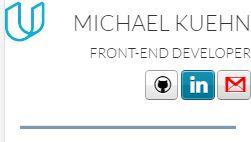
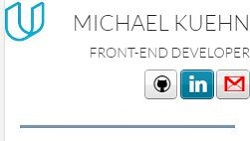
Customize CSS and add images

diff --git a/js/resumeBuilder.js b/js/resumeBuilder.js
@@ -60,14 +60,14 @@ var education = {
         "degree": "M.A.",
         "majors": ["Mathematics Education (5-12)"],
         "dates": "2011-2013",
-        "url": "http://www.wgu.edu"
+        "url": "http://www.wgu.edu/wgu/credit/program546b"
     }, {
         "name": "United States Military Academy",
         "location": "West Point, New York",
         "degree": "B.S.",
         "majors": ["Information Systems Engineering", "Computer Science"],
         "dates": "1999-2003",
-        "url": "http://www.usma.edu"
+        "url": "http://www.usma.edu/eecs"
     }],
     "onlineCourses": [{
         "title": "Front-End Developer Nanodegree",
@@ -150,13 +150,13 @@ var projects = {
         "title": "Online Portfolio",
         "dates": "2016",
         "description": "I created an online portfolio to showcase all of my web development and data analysis projects.",
-        "images": ["images/portfolio.jpg"],
+        "images": ["images/portfolio.jpg", "images/portfolio2.jpg"],
         "url": "https://mkuehn10.github.io/"
     }, {
         "title": "Identify Fraud at Enron",
         "dates": "2016",
         "description": "Identified which Enron employees are more likely to have committed fraud using machine learning and public Enron financial and email data.",
-        "images": ["images/enron2.jpg"],
+        "images": ["images/enron1.jpg", "images/enron2.jpg"],
         "url": "https://github.com/mkuehn10/P5-Identify-Fraud-from-Enron"
     }]
 };

diff --git a/css/style.css b/css/style.css
@@ -11,7 +11,7 @@ h5,
 h6 {
   padding:0;
   margin:0;
-  font-family: "Roboto", sans-serif;
+  font-family: "Poppins", sans-serif;
 }
 
 .clear-fix {
@@ -30,7 +30,7 @@ h6 {
 
 h1 {
   font-size: 40px;
-  color: #f5a623;
+  color: #c2240f;
   line-height: 48px;
   display: inline;
 }
@@ -38,7 +38,7 @@ h1 {
 h2 {
   font-weight: bold;
   font-size: 24px;
-  color: #999;
+  color: #4a427d;
   line-height: 29px;
   padding: 10px;
 }
@@ -104,16 +104,16 @@ a {
 }
 
 #skills-h3 {
-  color: #f5ae23;
+  color: #c2240f;
   display: none;
 }
 
 .orange {
-  background-color: #f5ae23;
+  background-color: #c2240f;
 }
 
 .orange-text {
-  color: #f5ae23;
+  color: #c2240f;
 }
 
 .white-text {
@@ -128,12 +128,12 @@ a {
 }
 
 .dark-gray {
-  background-color: #4a4a4a;
+  background-color: #4a427d;
 }
 
 /* TODO: Replace with image later */
 #header {
-  background-color: #484848;
+  background-color: #4a427d;
 }
 
 .flex-box {

diff --git a/index.html b/index.html
@@ -10,6 +10,7 @@
     <script src="js/helper.js"></script>
     <script src="http://maps.googleapis.com/maps/api/js?libraries=places"></script>
     <meta name="viewport" content="width=device-width">
+    <link href="https://fonts.googleapis.com/css?family=Poppins" rel="stylesheet">
 </head>
 
 <body>
